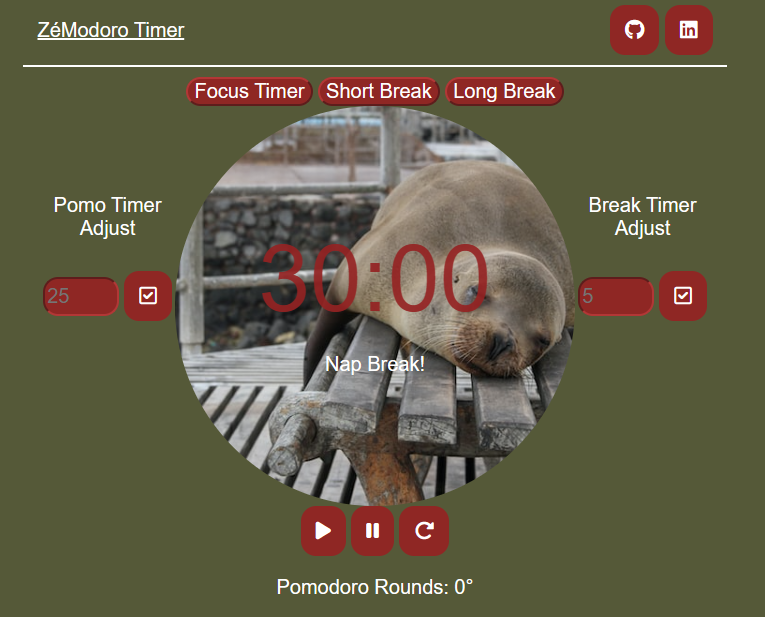
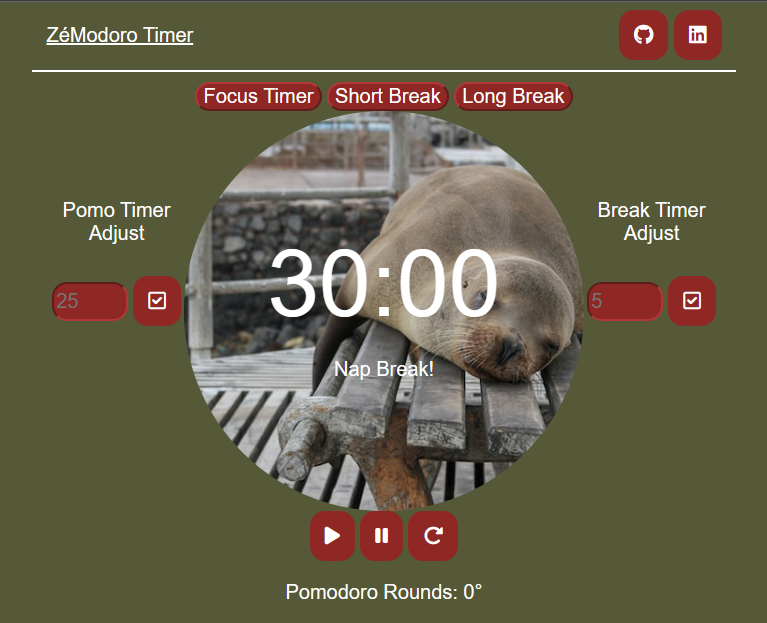
Version 1.2 - center text white

diff --git a/index.html b/index.html
@@ -6,7 +6,7 @@
     <meta name="viewport" content="width=device-width, initial-scale=1.0">
     <link rel="stylesheet" href="style.css">
     <!--I took all items from fontawesome.com, so create your account in order to access the same icons i used or use some you want-->
-    <script src="https://kit.fontawesome.com/f22e27b632.js" crossorigin="anonymous"></script>
+    <script src="https://kit.fontawesome.com/yourId.js" crossorigin="anonymous"></script>
     <title>ZeModoro</title>
 </head>
 <body>

diff --git a/style.css b/style.css
@@ -102,7 +102,7 @@ section{
 section#Counter{
     font: normal 70pt Arial;
     margin-top:30%;
-    color: rgba(148, 34, 34, 0.911);
+    color: white;
 }
 
 footer{
